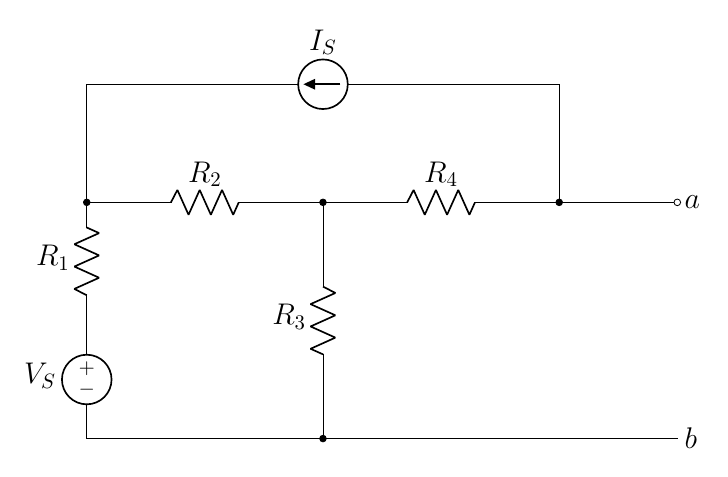
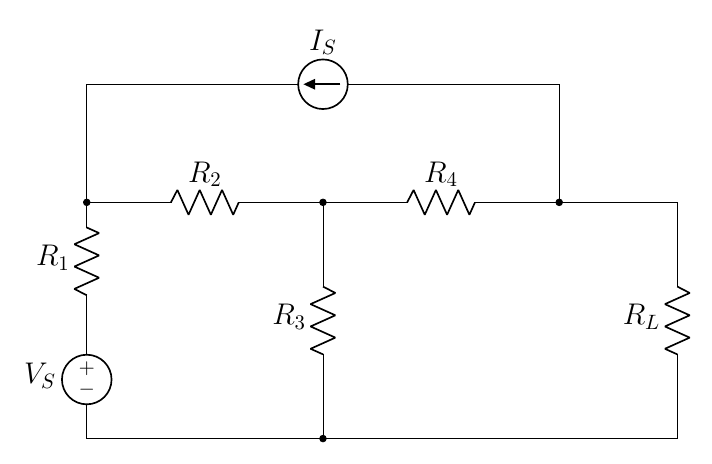
edit 4.39

diff --git a/1.8 Thevinin and Norton/4.5-4.6 Thevenin Norton/4.39(new).tex b/1.8 Thevinin and Norton/4.5-4.6 Thevenin Norton/4.39(new).tex
@@ -3,7 +3,7 @@
 \begin{circuitikz}[american,cute inductors]
     \input{../../preamble2.tex}
 
-    \draw(0,0) node[anchor=west]{$b$}
+    \draw(0,0) 
         to[short] ++(-6,0)
         to[short] ++(-4,0)
         to[V, l=\vsname{}] ++(0,2)
@@ -14,7 +14,8 @@
         to[short] ++(0,2)
         to[I, l_=\isname{}] ++(-8,0)
         to[short,-*] ++(0,-2) ++(8,0)
-        to[short,*-o] ++(2,0) node[anchor=west]{$a$};
+        to[short,*-] ++(2,0)
+        to[R,l_=\rname{L}] (0,0);
 
     %%% find %%%
     % node[anchor=west]{$a$}
